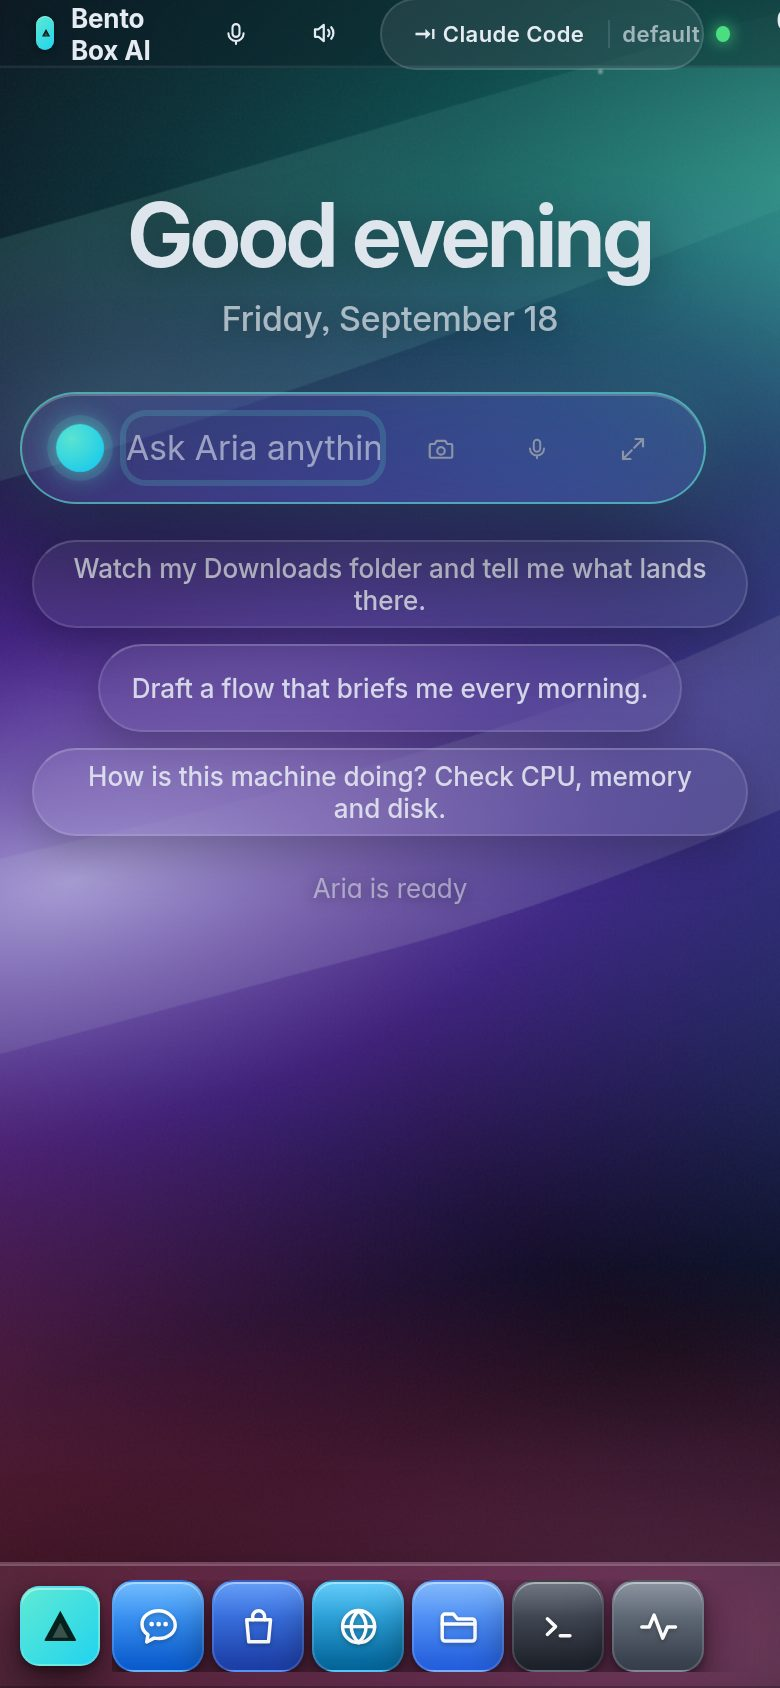
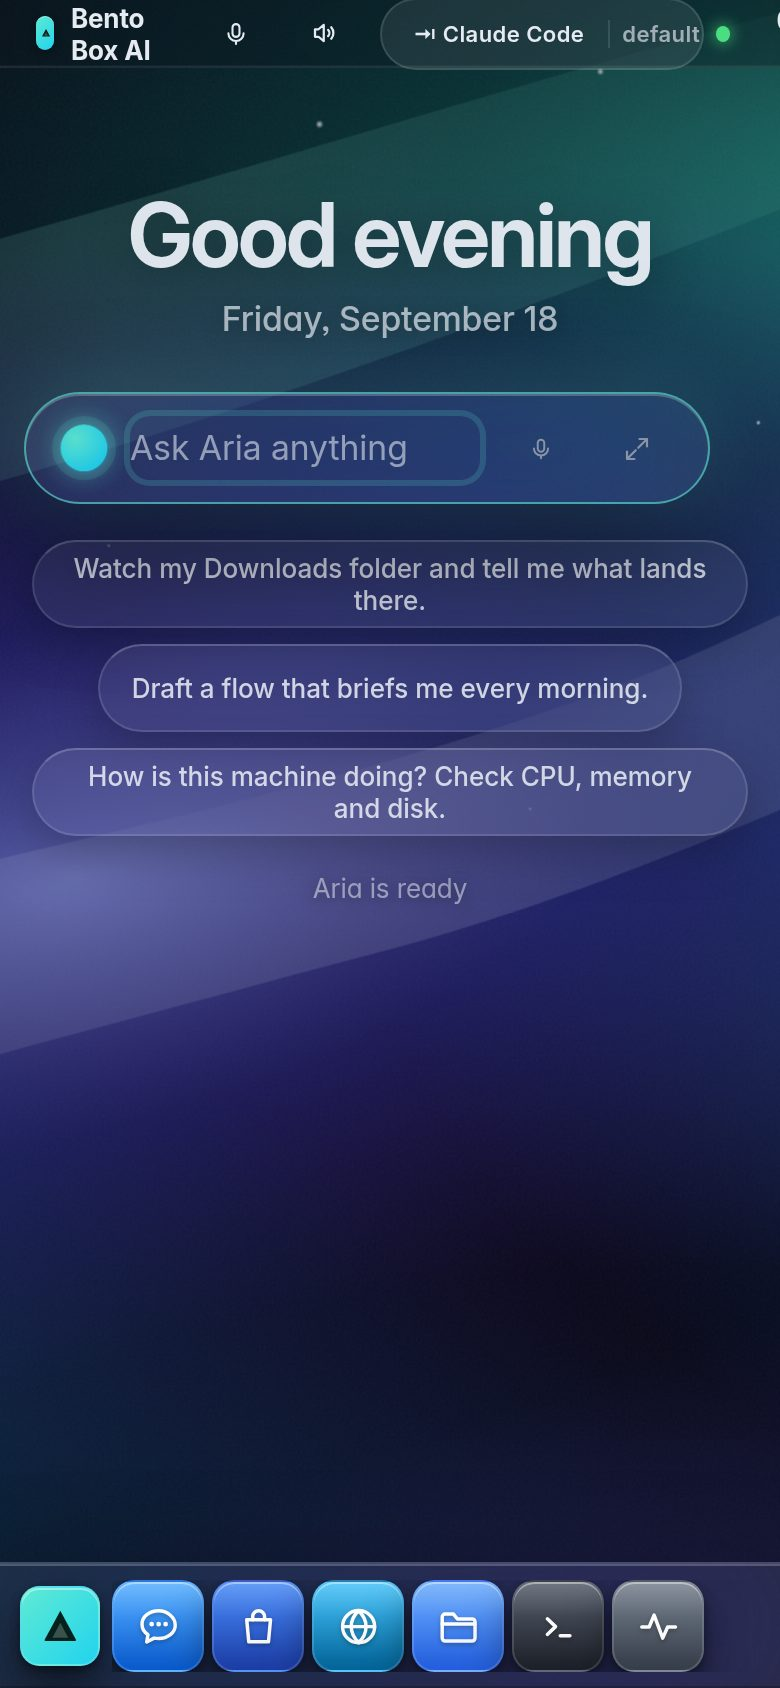
Immersive, phone: the prompt bar's input gets its width back
Measured on a 390px phone: the input was 130px of a 343px bar and the
placeholder was cut at "Ask Aria anythin" — the orb, three 36px buttons and
the desktop's gaps took the rest. Now: tighter gaps and padding, an 18px orb,
and the screenshot button goes on a phone (it captures the SERVER's screen,
and the phone has the same door in Chat's ＋); the two buttons that stay keep
the 36px floor. Input measured at 175px, placeholder whole.

Also, for every look: the placeholder drops "— or press Ctrl+Space" on a touch
screen. A key hint with no keyboard is the D10 rule again.

Claude-Session: https://claude.ai/code/session_01EMkmMF6bwqpdr37qr2kwRZ

diff --git a/agentos/ui/index.html b/agentos/ui/index.html
@@ -3250,6 +3250,17 @@ body.immersive .swcard.sel{background:color-mix(in srgb,var(--acc) 18%,transpare
    bar; everything else (materials, colour, type) is the same experience in a
    hand. Tap sizes are untouched by this file on purpose — --tap is the floor. */
 body.immersive.dev-touch .hm-chip{min-height:44px;padding:0 16px}   /* --tap is the floor: measured 36px before */
+/* The phone's prompt bar: measured, the input was 130px of a 340px bar — the
+   orb, three 36px buttons and the desktop's gaps took the rest, and the
+   placeholder was cut at "Ask Aria anythin". Tighter gaps, a smaller orb, and
+   the screenshot button goes (it captures the SERVER's screen, and the phone
+   has the same door in Chat's ＋); the two buttons that stay keep the 36px floor. */
+body.immersive.dev-mobile #omnibar{left:12px;right:12px;width:auto;padding:0 8px 0 12px;gap:6px;transform:none}
+body.immersive.dev-mobile #omnibar.pop{width:auto}
+body.immersive.dev-mobile #omni-orb{width:18px;height:18px}
+body.immersive.dev-mobile #omni-shot{display:none}
+body.immersive.dev-mobile #omni-in{font-size:16px;min-width:0;flex:1 1 0}
+body.immersive.dev-mobile #omnilist,body.immersive.dev-mobile #omnicards{left:12px;right:12px;width:auto;transform:none}
 /* the phone hides the chat sidebar outright (15-responsive); here it is the
    drawer, so it comes back only while the drawer is open */
 body.immersive.dev-mobile .chatwrap.drawer .cside{display:flex!important}
@@ -19153,6 +19164,7 @@ function omniPresence(){
   const live=n===1?actLine([...RUNNING][0]):'';
   const want=n>1?`${agentName()} · ${n} turns running…`
           :n?(live?`${agentName()} · ${live}`:`${agentName()} is working…`)
+             :(typeof isTouch==='function'&&isTouch())?`Ask ${agentName()} anything`      // no keyboard, no key hint (D10)
              :`Ask ${agentName()} anything — or press Ctrl+Space`;
   if(inp.placeholder!==want)inp.placeholder=want;   // once a second, only when it changed
 }

diff --git a/agentos/ui/src/css/20-immersive.css b/agentos/ui/src/css/20-immersive.css
@@ -500,6 +500,17 @@ body.immersive .swcard.sel{background:color-mix(in srgb,var(--acc) 18%,transpare
    bar; everything else (materials, colour, type) is the same experience in a
    hand. Tap sizes are untouched by this file on purpose — --tap is the floor. */
 body.immersive.dev-touch .hm-chip{min-height:44px;padding:0 16px}   /* --tap is the floor: measured 36px before */
+/* The phone's prompt bar: measured, the input was 130px of a 340px bar — the
+   orb, three 36px buttons and the desktop's gaps took the rest, and the
+   placeholder was cut at "Ask Aria anythin". Tighter gaps, a smaller orb, and
+   the screenshot button goes (it captures the SERVER's screen, and the phone
+   has the same door in Chat's ＋); the two buttons that stay keep the 36px floor. */
+body.immersive.dev-mobile #omnibar{left:12px;right:12px;width:auto;padding:0 8px 0 12px;gap:6px;transform:none}
+body.immersive.dev-mobile #omnibar.pop{width:auto}
+body.immersive.dev-mobile #omni-orb{width:18px;height:18px}
+body.immersive.dev-mobile #omni-shot{display:none}
+body.immersive.dev-mobile #omni-in{font-size:16px;min-width:0;flex:1 1 0}
+body.immersive.dev-mobile #omnilist,body.immersive.dev-mobile #omnicards{left:12px;right:12px;width:auto;transform:none}
 /* the phone hides the chat sidebar outright (15-responsive); here it is the
    drawer, so it comes back only while the drawer is open */
 body.immersive.dev-mobile .chatwrap.drawer .cside{display:flex!important}

diff --git a/agentos/ui/src/js/28a-omnibar.js b/agentos/ui/src/js/28a-omnibar.js
@@ -16,6 +16,7 @@ function omniPresence(){
   const live=n===1?actLine([...RUNNING][0]):'';
   const want=n>1?`${agentName()} · ${n} turns running…`
           :n?(live?`${agentName()} · ${live}`:`${agentName()} is working…`)
+             :(typeof isTouch==='function'&&isTouch())?`Ask ${agentName()} anything`      // no keyboard, no key hint (D10)
              :`Ask ${agentName()} anything — or press Ctrl+Space`;
   if(inp.placeholder!==want)inp.placeholder=want;   // once a second, only when it changed
 }
